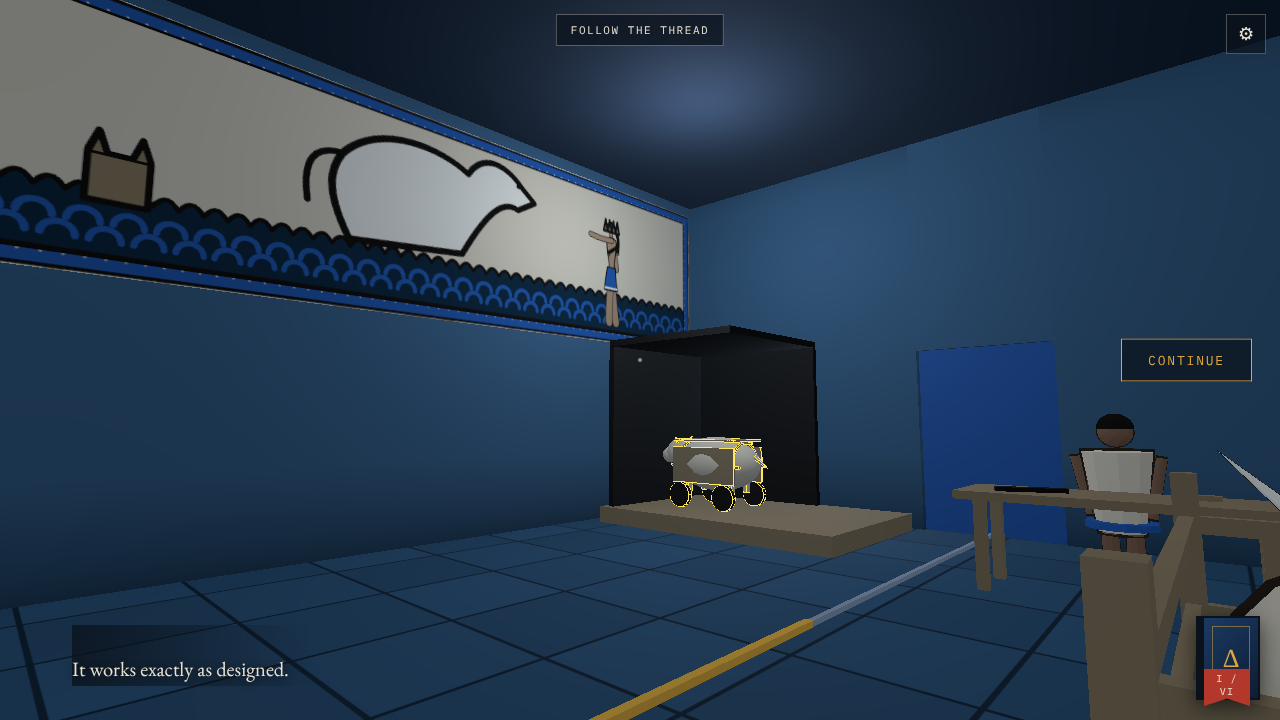
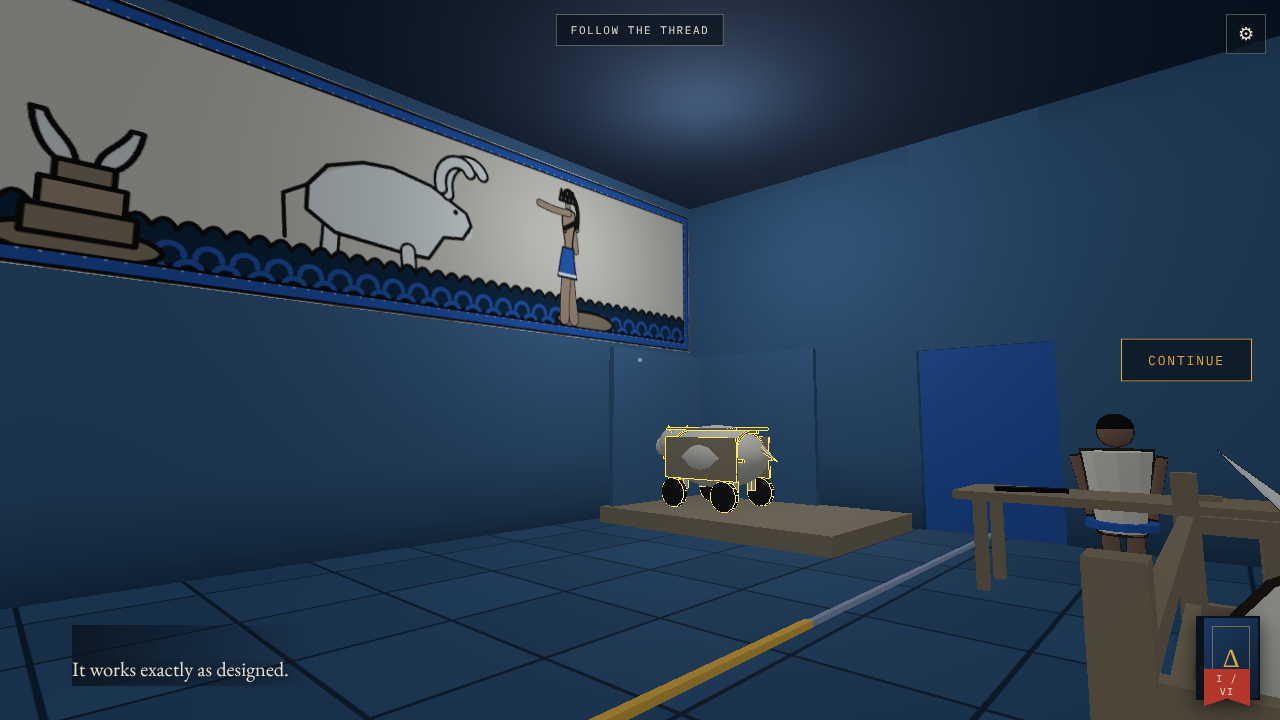
T9 fix: bull fresco, alcove
Claude-Session: https://claude.ai/code/session_01HgZGDSDqA1vYXDUdhqfGPt

Changed region(s): [[0.0, 0.1222, 0.6562, 0.7028]]

diff --git a/src/chambers/CowChamber.tsx b/src/chambers/CowChamber.tsx
@@ -12,9 +12,9 @@ import { Fresco, figure, type Paint } from '../world/Fresco';
 import { Hotspot } from '../world/interact';
 
 type V3 = [number, number, number];
-const F = LOOK.fresco, SC = 0.7, WR = 0.28, DIST = 1.4, X0 = -2.2, Z0 = -3.8, Y0 = 0.25 + 0.94 * SC;
+const F = LOOK.fresco, SC = 0.82, WR = 0.28, DIST = 1.4, X0 = -2.2, Z0 = -3.8, Y0 = 0.25 + 0.94 * SC;
 const mat = (color: string) => new THREE.MeshStandardMaterial({ color, roughness: 0.88 });
-const wood = mat(F.earth), tyre = mat(F.line), hide = mat(F.skinPale), curtainMat = mat(LOOK.stone.ceiling);
+const wood = mat(F.earth), tyre = mat(F.line), hide = mat(F.skinPale), curtainMat = mat(LOOK.stone.ceiling), alc = mat(LOOK.stone.wall);
 
 // The cow in cow-local metres (head +z). part: 0 FRAME, 1 PANELS, 2 WHEELS, 3 HIDE; off = where it hangs before it is fitted.
 interface Piece { part: number; off: V3; g: THREE.BufferGeometry; m: THREE.Material; pos: V3; rot?: V3; sc?: V3; thr?: number; wheel?: boolean }
@@ -45,29 +45,38 @@ const Plank = ({ a, p, m = wood, r }: { a: V3; p: V3; m?: THREE.Material; r?: V3
 const ln = (g: CanvasRenderingContext2D, w = 3) => { g.strokeStyle = F.line; g.lineWidth = w; g.lineJoin = 'round'; g.stroke(); };
 const bullPaint: Paint = (g, w, h) => {
   g.fillStyle = F.skinPale; g.fillRect(0, 0, w, h);
-  const k = h / 100, by = h * 0.8, bx = w * 0.44;
-  g.save(); g.translate(bx, by); g.scale(1.3, 1.3); g.translate(-bx, -by);
-  g.fillStyle = F.plaster; g.beginPath(); // the white bull, rearing out of the sea, facing right
-  g.moveTo(bx - 34 * k, by - 40 * k); g.bezierCurveTo(bx - 20 * k, by - 58 * k, bx + 8 * k, by - 56 * k, bx + 22 * k, by - 48 * k);
-  g.bezierCurveTo(bx + 30 * k, by - 62 * k, bx + 44 * k, by - 58 * k, bx + 52 * k, by - 50 * k); g.lineTo(bx + 60 * k, by - 44 * k);
-  g.lineTo(bx + 50 * k, by - 38 * k); g.bezierCurveTo(bx + 40 * k, by - 42 * k, bx + 30 * k, by - 28 * k, bx + 20 * k, by - 10 * k);
-  g.lineTo(bx - 30 * k, by - 6 * k); g.bezierCurveTo(bx - 38 * k, by - 20 * k, bx - 40 * k, by - 30 * k, bx - 34 * k, by - 40 * k);
-  g.fill(); ln(g, 3 * k);
-  g.beginPath(); g.arc(bx + 44 * k, by - 62 * k, 9 * k, Math.PI * 1.1, Math.PI * 1.9); ln(g, 3 * k); // horn
-  g.fillStyle = F.line; g.beginPath(); g.arc(bx + 50 * k, by - 50 * k, 1.2 * k, 0, 6.3); g.fill();
-  g.beginPath(); g.moveTo(bx - 34 * k, by - 40 * k); g.quadraticCurveTo(bx - 50 * k, by - 40 * k, bx - 46 * k, by - 18 * k); ln(g, 2.5 * k); // tail
+  const k = h / 100, by = h * 0.88, bx = w * 0.38;
+  const P = (pts: number[][], width: number, col: string) => { g.beginPath(); pts.forEach(([x, y], i) => (i ? g.lineTo(x, y) : g.moveTo(x, y))); g.lineCap = 'round'; g.strokeStyle = col; g.lineWidth = width; g.stroke(); };
+  g.save(); g.translate(bx, by); g.scale(0.88 * k, 0.88 * k); // the white bull, in units of k, origin at the sea line, facing right
+  const leg = (pts: number[][]) => { P(pts, 11, F.line); P(pts, 7.5, F.plaster); };
+  leg([[-26, -28], [-27, 0]]); leg([[8, -28], [30, -22], [36, -34]]); // far hind leg, raised foreleg
+  g.fillStyle = F.plaster; g.beginPath(); g.moveTo(-40, -44); g.bezierCurveTo(-30, -58, -10, -66, 8, -68); // rump, back, shoulder hump
+  g.bezierCurveTo(24, -66, 34, -64, 44, -60); g.bezierCurveTo(52, -58, 60, -52, 64, -44); // heavy neck, brow
+  g.bezierCurveTo(67, -38, 63, -32, 57, -34); g.bezierCurveTo(50, -34, 46, -34, 42, -28); // blunt muzzle, jaw
+  g.bezierCurveTo(38, -16, 30, -12, 20, -16); g.lineTo(-24, -20); g.bezierCurveTo(-38, -24, -44, -34, -40, -44); // dewlap, belly
+  g.closePath(); g.fill(); P([[-40, -44], [-30, -58], [-10, -66], [8, -68], [34, -64], [60, -52], [64, -44], [58, -34], [44, -32], [34, -16], [20, -16], [-24, -20], [-40, -30], [-40, -44]], 2.4, F.line);
+  leg([[20, -18], [22, 0]]);
+  for (const [dx, dy, s] of [[0, 0, 1], [-5, -3, 0.8]]) { // lyre horns, curving out, up and inward
+    const hx = 46 + dx, hy = -62 + dy;
+    g.beginPath(); g.moveTo(hx, hy); g.bezierCurveTo(hx - 6 * s, hy - 22 * s, hx + 18 * s, hy - 34 * s, hx + 26 * s, hy - 20 * s);
+    g.lineCap = 'round'; g.strokeStyle = F.line; g.lineWidth = 10; g.stroke(); g.strokeStyle = F.plaster; g.lineWidth = 6; g.stroke();
+  }
+  P([[-40, -44], [-52, -36], [-50, -12]], 2.2, F.line); // thin tail
+  g.fillStyle = F.line; for (const [x, y, r] of [[52, -51, 1.8], [62, -40, 1.3]]) { g.beginPath(); g.arc(x, y, r, 0, 6.3); g.fill(); } // eye, nostril
   g.restore();
   g.fillStyle = F.sea; g.beginPath(); g.moveTo(0, h); g.lineTo(0, by - 4 * k); // the lapis sea band, waves over the legs
   for (let x = 0; x <= w; x += 9 * k) g.quadraticCurveTo(x + 4.5 * k, by - 12 * k, x + 9 * k, by - 4 * k);
   g.lineTo(w, h); g.closePath(); g.fill(); ln(g, 2 * k);
   g.strokeStyle = F.blue; g.lineWidth = 2.4 * k;
   for (let r = 0; r < 2; r++) for (let x = (r % 2) * 7 * k; x < w; x += 14 * k) { g.beginPath(); g.arc(x, by + (7 + r * 7) * k, 5 * k, Math.PI, 0); g.stroke(); }
-  g.fillStyle = F.earth; g.beginPath(); g.rect(w * 0.1, by - 22 * k, 20 * k, 20 * k); g.fill(); ln(g, 2.5 * k); // altar with horns of consecration
-  for (const dx of [0, 14]) { g.beginPath(); g.moveTo(w * 0.1 + dx * k, by - 22 * k); g.lineTo(w * 0.1 + (dx + 3) * k, by - 31 * k); g.lineTo(w * 0.1 + (dx + 6) * k, by - 22 * k); g.fill(); ln(g, 2.5 * k); }
-  const mx = w * 0.8, my = h * 0.94, mh = 78 * k;
-  figure(g, { x: mx, y: my, h: mh, facing: -1, pose: 'reach', fill: F.skin }); // Minos leads
+  g.fillStyle = F.earth; for (const x of [w * 0.1, w * 0.74]) { g.beginPath(); g.ellipse(x, h * 0.96, 26 * k, 7 * k, 0, 0, 6.3); g.fill(); ln(g, 2.2 * k); } // shore islets
+  const ax = w * 0.1, ay = h * 0.945, steps: [number, number, string][] = [[34, 11, F.earth], [26, 11, F.skin], [18, 8, F.earth]]; // stepped altar, horns of consecration on top
+  let top = ay; for (const [bw, bh, col] of steps) { g.fillStyle = col; g.beginPath(); g.rect(ax - bw * k / 2, top - bh * k, bw * k, bh * k); g.fill(); ln(g, 2.2 * k); top -= bh * k; }
+  for (const s of [-1, 1]) { g.beginPath(); g.moveTo(ax + s * 3 * k, top); g.bezierCurveTo(ax + s * 4 * k, top - 8 * k, ax + s * 10 * k, top - 10 * k, ax + s * 13 * k, top - 18 * k); g.lineTo(ax + s * 17 * k, top - 18 * k); g.bezierCurveTo(ax + s * 16 * k, top - 8 * k, ax + s * 12 * k, top - 2 * k, ax + s * 9 * k, top); g.closePath(); g.fillStyle = F.plaster; g.fill(); ln(g, 2.2 * k); }
+  const mx = w * 0.7, my = h * 0.97, mh = 95 * k;
+  figure(g, { x: mx, y: my, h: mh, facing: -1, pose: 'reach', fill: F.skin }); // Minos reaches toward the bull
   g.fillStyle = F.earth; g.beginPath(); const hx = mx - 3 * mh / 100, hy = my - 87 * mh / 100; // crown
-  g.moveTo(hx - 6 * k, hy); for (let i = 0; i < 4; i++) { g.lineTo(hx - 6 * k + i * 4 * k + 2 * k, hy - 9 * k); g.lineTo(hx - 6 * k + (i + 1) * 4 * k, hy); } g.closePath(); g.fill(); ln(g, 2 * k);
+  g.moveTo(hx - 6 * k, hy); for (let i = 0; i < 4; i++) { g.lineTo(hx - 6 * k + i * 3.5 * k + 1.7 * k, hy - 8 * k); g.lineTo(hx - 6 * k + (i + 1) * 3.5 * k, hy); } g.closePath(); g.fill(); ln(g, 2 * k);
 };
 const queenPaint: Paint = (g, w, h) => {
   g.fillStyle = F.skinPale; g.fillRect(0, 0, w, h);
@@ -149,9 +158,8 @@ export default function CowChamber({ step, state }: ChamberProps) {
 
       {/* raised platform, the alcove at its west end, and the curtain that drops when the cow is inside */}
       <Plank a={[4, 0.25, 2.6]} p={[-3, 0.125, Z0]} />
-      <Plank a={[0.1, 2.6, 2.4]} p={[-4.85, 1.55, Z0]} m={tyre} />
-      <Plank a={[2.4, 2.6, 0.1]} p={[-3.65, 1.55, -5]} m={tyre} />{/* open toward +Z so the entry sees the cow inside */}
-      <Plank a={[2.4, 0.1, 2.5]} p={[-3.65, 2.9, Z0]} m={tyre} />
+      <Plank a={[0.1, 2.6, 2.4]} p={[-4.85, 1.55, Z0]} m={alc} />
+      <Plank a={[2.4, 2.6, 0.1]} p={[-3.65, 1.55, -5]} m={alc} />{/* open toward +Z so the entry sees the cow inside */}
       <mesh ref={curtain} position={[-2.45, 2.6, Z0]} visible={false} material={curtainMat}><boxGeometry args={[0.06, 2.6, 2.4]} /></mesh>
       <Hotspot pos={[-2.35, 1.3, Z0]} enabled={on(4)} onUse={adv} radius={4.5} />
 
